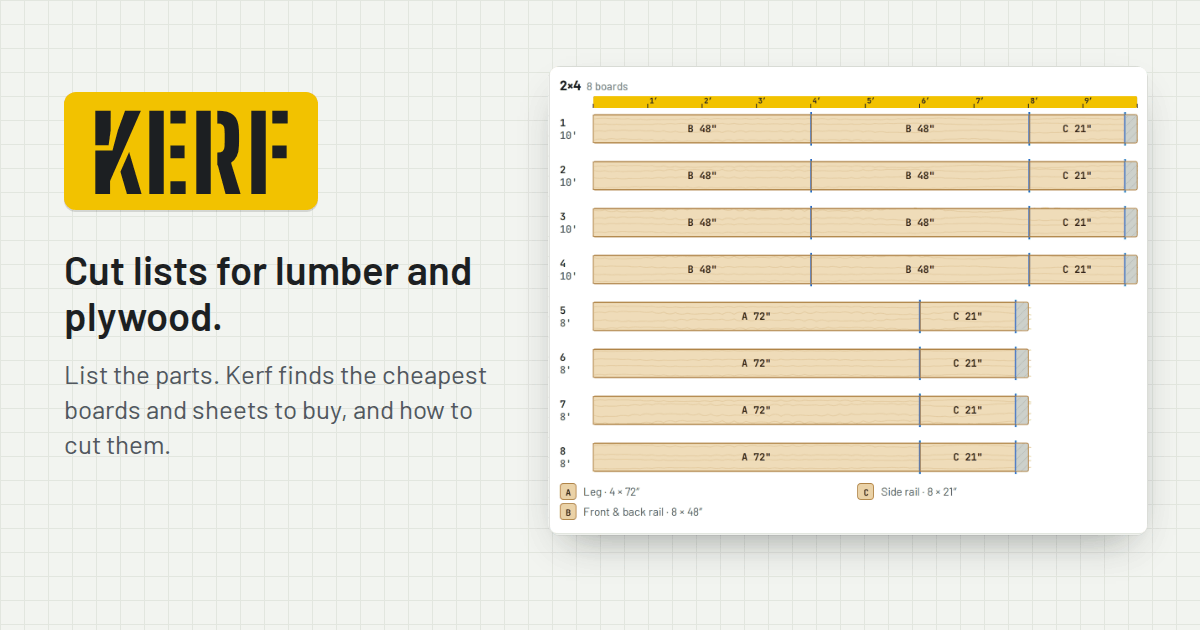
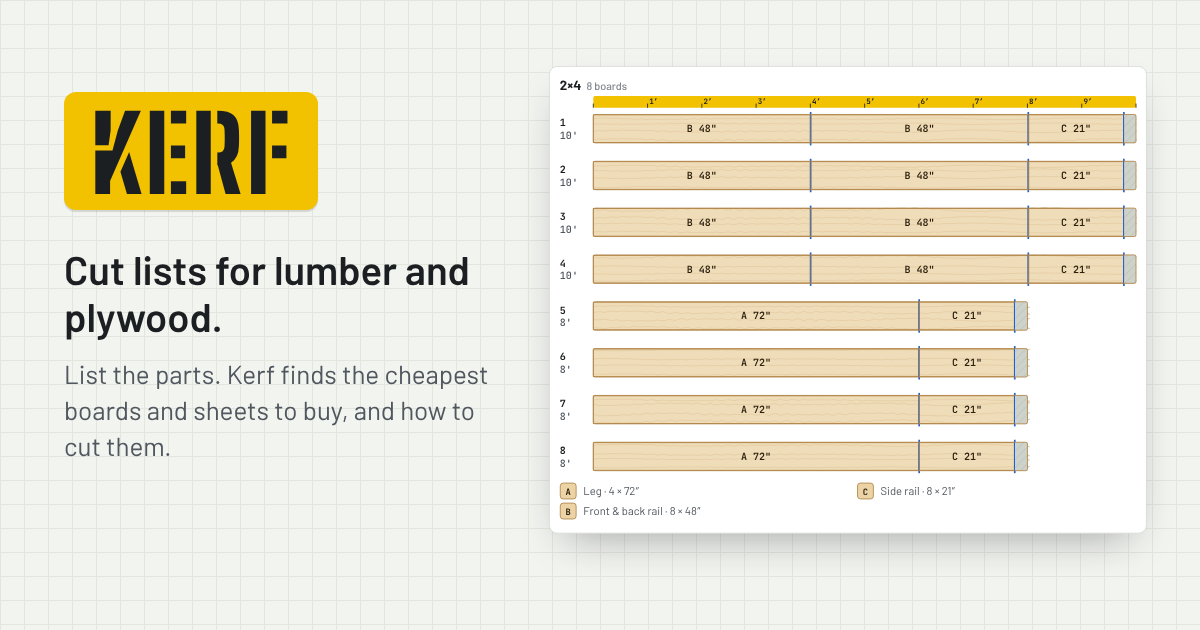
Put the README in the house shape, with phone screenshots
The README opened with a plain paragraph and had no screenshots, no way
to remake og.png, and no Running it or Files sections. It now starts
with the "Use it" line and a bold lede, shows the cut list, the plan and
the saw on a phone, and ends with how to run it, the tests and what each
file is for. How it plans, the Claude skill, links and project files are
unchanged. tools/screenshots.mjs draws docs/*.png and og.png from the
example project; the new og.png is the same card as before, drawn by it.

Claude-Session: https://claude.ai/code/session_01N3tHmrVtD9q2Zcak1ErX34

diff --git a/README.md b/README.md
@@ -1,12 +1,18 @@
 # Kerf
 
-A cut-list optimizer for lumber and plywood. List the parts a project needs; Kerf works out the cheapest boards and sheets to buy, draws how to cut each one, and gives you a checklist to work through at the saw.
+**Use it: [kerf.junkdrawer.works](https://kerf.junkdrawer.works/)**
 
-Use it at [kerf.junkdrawer.works](https://kerf.junkdrawer.works/). It installs as an app (from the browser's menu, or Share → Add to Home Screen on an iPhone) and works offline once it has loaded.
+**A cut-list optimizer for lumber and plywood.** List the parts a project needs; Kerf works out the cheapest boards and sheets to buy, draws how to cut each one, and gives you a checklist to work through at the saw. It installs as an app (from the browser's menu, or Share → Add to Home Screen on an iPhone) and works offline once it has loaded.
 
-It is one HTML file with no build step and no server. Open `index.html` in a browser, or host it anywhere static (GitHub Pages works). `manifest.webmanifest`, `icon.svg` and the `icon-*.png` sizes (`node tools/make-icons.mjs` redraws them) let it install, `sw.js` keeps the offline copy, and `og.png` is the link preview. The fonts in `fonts/` (Barlow, Big Shoulders Stencil and JetBrains Mono, SIL Open Font License) are served from here so nothing loads from elsewhere.
+<p align="center">
+  <img src="docs/phone-list.png" alt="The cut list for a set of garage shelves: 2×4 legs, front and back rails and side rails, and four ¾ plywood shelves with the grain locked, each with a quantity and a length, above the sizes you can buy and what they cost" width="250">
+  &nbsp;
+  <img src="docs/phone-plan.png" alt="The plan: $100.64 to buy for 8 boards and 1 sheet in 27 cuts, a tip that making the front and back rails 47 15/16 inches instead of 48 makes the 2×4s $4.12 cheaper, and the shopping list" width="250">
+  &nbsp;
+  <img src="docs/phone-saw.png" alt="At the saw, 4 of 27 cuts done: board 1, a 10-foot 2×4, with its three cuts ticked off and a 2 5/8 inch offcut left, and the first cut on board 2 ticked" width="250">
+</p>
 
-## What it does
+## How it works
 
 - **Cut list.** Group parts by material: 2×4s, 1×6s, ¾ plywood, anything. Each material lists the sizes you can buy and what they cost. Lengths can be typed the way a tape reads: `35 3/4`, `35-3/4`, `2' 11 3/4"`, `¾`, or `910mm`. The page can also work in millimetres throughout.
 - **Plan.** The total to spend, a shopping list you can copy as text, and a diagram of every board and sheet. The diagrams show the parts, the saw kerf between them, and the offcut left over.
@@ -15,7 +21,7 @@ It is one HTML file with no build step and no server. Open `index.html` in a bro
 - **Grain.** Sheet parts can be locked so the grain runs along their length; unlocked parts may be turned to fit better.
 - **At the saw.** Each board and sheet becomes a checklist in cutting order, with where to measure from. Ticks are saved as you go.
 - **Shop PDF.** A printable sheet with the shopping list and every diagram.
-- **Projects** are kept in the browser's local storage. To move one to another device, save it as a file or copy it as text, then open or paste it there.
+- **Projects** are kept in the browser's local storage, with no account and no server. To move one to another device, save it as a file or copy it as text, then open or paste it there.
 
 Settings per project: saw kerf (⅛″ by default), trimming each board end square, the smallest offcut worth keeping, and the currency sign. The preset prices are examples; change them to what your store charges.
 
@@ -38,21 +44,6 @@ Settings per project: saw kerf (⅛″ by default), trimming each board end squa
 
 The layout's cut tree becomes the numbered rip and crosscut steps. Sheet packing is a heuristic, not a proof: it is good, not guaranteed optimal.
 
-## Tests
-
-```
-npm test
-```
-
-That runs two suites. `test/solver.test.cjs` needs no dependencies: it reads the solver straight out of `index.html` and checks:
-
-- **Parsing:** lengths in each format parse to the right value.
-- **Boards:** the example project costs the known optimum, and several hundred random jobs match a brute-force search. The random jobs include offcuts on hand, end trim and two kerf widths. Boards on hand that run short are reported, not left to crash.
-- **Big jobs:** a 90-piece job finishes quickly.
-- **Sheets:** in 200 random jobs, every part is on its sheet at the right size, no two parts overlap once the kerf is counted, and grain-locked parts are never turned.
-
-`test/e2e.mjs` uses the real page in Chromium at phone size (it needs Playwright). It opens the example and checks its total, opens a link and a project file made by the kerf-planner skill, ticks cuts at the saw and reloads, and checks that nothing scrolls sideways, nothing loads from elsewhere, and it still opens offline.
-
 ## Planning a build with Claude
 
 `skill/kerf-planner/` is a skill for Claude. It helps you work out a design in conversation, derives an exact cut list from actual lumber sizes and the joinery, and hands the result to Kerf as a link and a project file. To use it, zip the `kerf-planner` folder and upload it as a skill in claude.ai; it needs code execution turned on. Its script, `scripts/make_kerf.py`, also runs on its own:
@@ -70,6 +61,42 @@ The format is the project JSON, compressed with raw DEFLATE and base64url-encode
 ## Project files
 
 A saved project is JSON: `{"kerf": 1, "project": {…}}`. Lengths are stored in inches whatever the display units. Opening a file keeps only fields Kerf understands and clamps the numbers, so a hand-edited file can't break the page.
+
+## Running it
+
+It's a static site: plain HTML, CSS and JavaScript in one page, with no build step.
+
+```sh
+npx serve .                   # or any static file server, then open the printed address
+npm test                      # checks the solver against brute force, then uses the real page in Chromium (needs Playwright)
+node tools/screenshots.mjs    # redraws docs/*.png and og.png
+node tools/make-icons.mjs     # redraws the PNG icons from icon.svg
+```
+
+To put it online with GitHub Pages: **Settings → Pages → Build and deployment → Deploy from a branch**, then pick `main` and `/ (root)`.
+
+### Tests
+
+`npm test` runs two suites. `test/solver.test.cjs` needs no dependencies: it reads the solver straight out of `index.html` and checks:
+
+- **Parsing:** lengths in each format parse to the right value.
+- **Boards:** the example project costs the known optimum, and several hundred random jobs match a brute-force search. The random jobs include offcuts on hand, end trim and two kerf widths. Boards on hand that run short are reported, not left to crash.
+- **Big jobs:** a 90-piece job finishes quickly.
+- **Sheets:** in 200 random jobs, every part is on its sheet at the right size, no two parts overlap once the kerf is counted, and grain-locked parts are never turned.
+
+`test/e2e.mjs` uses the real page in Chromium at phone size (it needs Playwright). It opens the example and checks its total, opens a link and a project file made by the kerf-planner skill (and broken links), ticks cuts at the saw and reloads, checks the steps for boards that need a last cut or end trim, the plan's warnings and drawings, the shop PDF's layout, tips, the dialogs from the keyboard, and when Kerf saves. Throughout, nothing may scroll sideways, throw an error or load from elsewhere, and at the end it opens offline.
+
+### Files
+
+- `index.html`: the whole app: the cut list, the board and sheet solvers, the drawings, the checklist for the saw and the shop PDF.
+- `fonts/`: Barlow, Big Shoulders Stencil and JetBrains Mono (SIL Open Font License), served from here so nothing loads from elsewhere.
+- `sw.js`: keeps a copy for using offline.
+- `manifest.webmanifest`, `icon.svg` and `icon-*.png`: let it install to a phone's home screen.
+- `og.png`: the link preview.
+- `CNAME` and `carry.js`: Kerf moved from junkdrawer.works/kerf/ to its own address. `CNAME` gives it kerf.junkdrawer.works, and `carry.js` brings the projects saved at the old address over the first time it opens at the new one.
+- `skill/kerf-planner/`: the skill for Claude, above.
+- `tools/`: `screenshots.mjs` for the pictures; `make-icons.mjs` and `icon-full-bleed.svg` for the icons.
+- `test/`: `solver.test.cjs` and `e2e.mjs`.
 
 ## License
 
